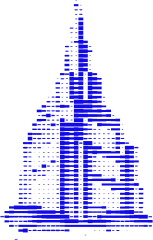
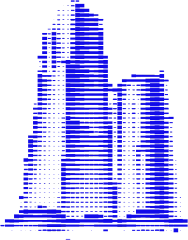
Use the new skyline drawing for Enterprise
Drawn 70px tall to balance the Organization pair.

diff --git a/packages/twenty-website/src/sections/pricing-plans/plans-data.ts b/packages/twenty-website/src/sections/pricing-plans/plans-data.ts
@@ -299,7 +299,7 @@ export const PLANS_DATA: Record<PlansTierId, PlansTier> = {
     icon: {
       alt: 'Enterprise plan icon',
       src: '/images/pricing/plans/enterprise.webp',
-      widthPx: 51,
+      widthPx: 55,
     },
     tagline: {
       cloud: msg`Dedicated scale for large companies.`,
